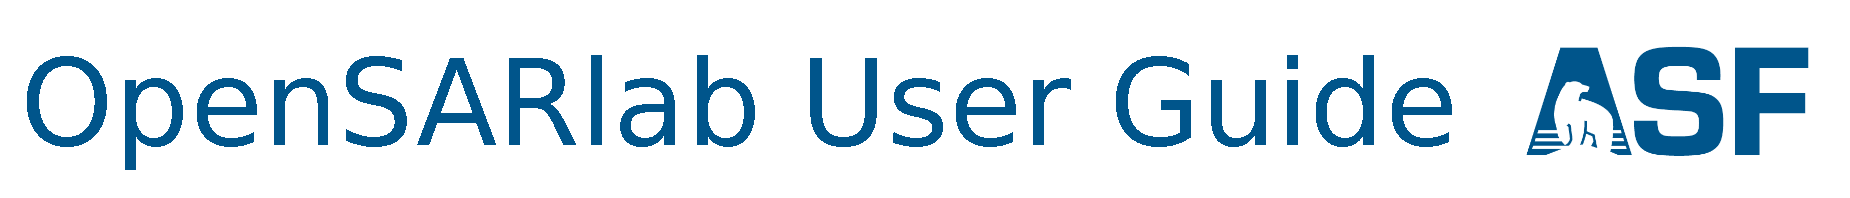
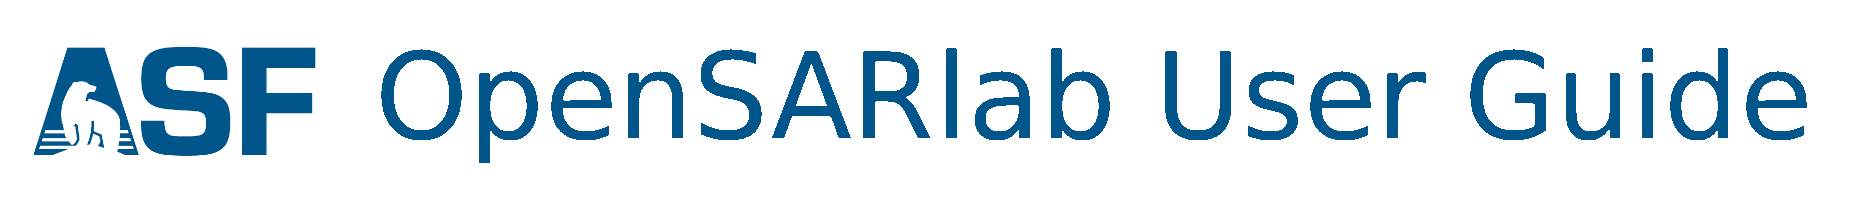
swap headers and delete mention of conda installations

Changed region(s): [[0.0, 0.2121, 0.9859, 0.8485]]

diff --git a/user_docs/installing_software_in_OpenSARlab.md b/user_docs/installing_software_in_OpenSARlab.md
@@ -10,14 +10,6 @@ It is important to use the  --user argument. This will install the package to yo
 
 Note that pip packages in the .local directory will supersede other versions of the same package installed elsewhere.   
 
-## conda 
-You can try to install conda packages using the command:
-- conda install --use-local package_name
-
-This will install to the /opt/conda/lib/python3.7/site-packages directory but may fail if conda needs to alter a dependency for which you do not have write permissions. 
-
-Note that you will have to reinstall conda packages after a server restart. 
-
 ## apt and apt-get
 Users cannot install software in OpenSARlab using apt or apt-get.
 

diff --git a/user_docs/OpenSARlab_user_guide.md b/user_docs/OpenSARlab_user_guide.md
@@ -1,4 +1,4 @@
-[![OpenSARlab Header](assets/OSL_user_guide_header_2.png)](OpenSARlab_user_guide.md)
+[![OpenSARlab Header](assets/OSL_user_guide_header.png)](OpenSARlab_user_guide.md)
  
 ## Table of Contents
 
